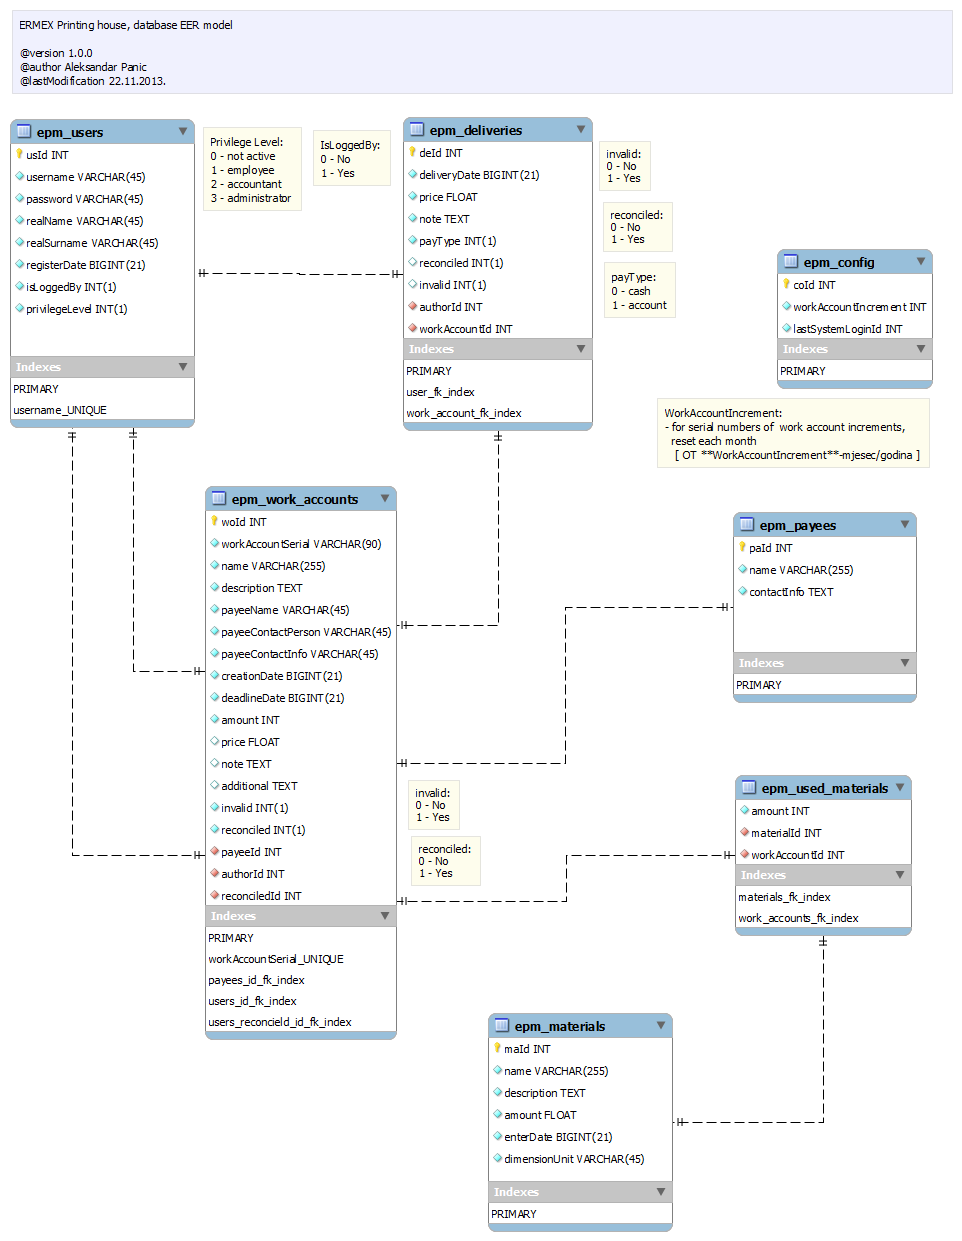
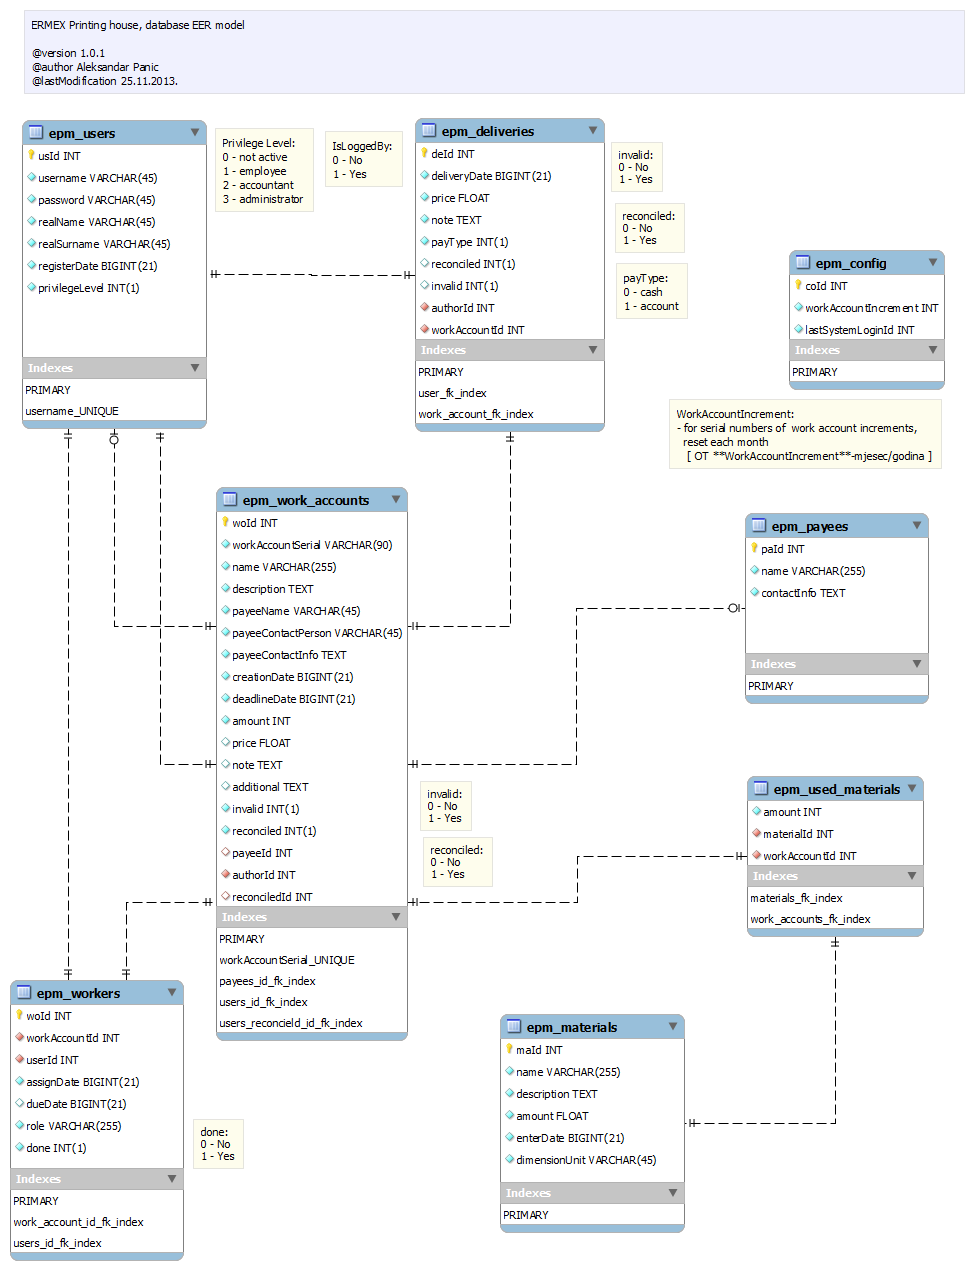
#33 U bazi nedostaje tabela za praćenje ko je šta radio

diff --git a/cross-platform/protected/models/WorkAccounts.php b/cross-platform/protected/models/WorkAccounts.php
@@ -26,9 +26,10 @@
  * The followings are the available model relations:
  * @property Deliveries[] $deliveries
  * @property UsedMaterials[] $usedMaterials
- * @property Users $reconciled0
  * @property Payees $payee
+ * @property Users $reconciled0
  * @property Users $author
+ * @property Workers[] $workers
  */
 class WorkAccounts extends CActiveRecord
 {
@@ -48,16 +49,17 @@ class WorkAccounts extends CActiveRecord
 		// NOTE: you should only define rules for those attributes that
 		// will receive user inputs.
 		return array(
-			array('workAccountSerial, name, description, payeeName, payeeContactPerson, payeeContactInfo, creationDate, deadlineDate, amount, invalid, reconciled, payeeId, authorId, reconciledId', 'required'),
+			array('workAccountSerial, name, description, payeeName, payeeContactPerson, payeeContactInfo, creationDate, deadlineDate, amount, invalid, reconciled, authorId', 'required'),
 			array('amount, invalid, reconciled, payeeId, authorId, reconciledId', 'numerical', 'integerOnly'=>true),
 			array('price', 'numerical'),
 			array('workAccountSerial', 'length', 'max'=>90),
 			array('name', 'length', 'max'=>255),
-			array('payeeName, payeeContactPerson, payeeContactInfo', 'length', 'max'=>45),
+			array('payeeName, payeeContactPerson', 'length', 'max'=>45),
 			array('creationDate, deadlineDate', 'length', 'max'=>21),
 			array('note, additional', 'safe'),
-
-			array('workAccountSerial, name, description, payeeName, payeeContactPerson, payeeContactInfo, creationDate, deadlineDate, amount, price, note, additional, invalid, reconciled, payeeId, authorId, reconciledId', 'safe', 'on'=>'search'),
+			// The following rule is used by search().
+			// @todo Please remove those attributes that should not be searched.
+			array('woId, workAccountSerial, name, description, payeeName, payeeContactPerson, payeeContactInfo, creationDate, deadlineDate, amount, price, note, additional, invalid, reconciled, payeeId, authorId, reconciledId', 'safe', 'on'=>'search'),
 		);
 	}
 
@@ -71,9 +73,10 @@ class WorkAccounts extends CActiveRecord
 		return array(
 			'deliveries' => array(self::HAS_MANY, 'Deliveries', 'workAccountId'),
 			'usedMaterials' => array(self::HAS_MANY, 'UsedMaterials', 'workAccountId'),
-			'reconciled0' => array(self::BELONGS_TO, 'Users', 'reconciledId'),
 			'payee' => array(self::BELONGS_TO, 'Payees', 'payeeId'),
+			'reconciled0' => array(self::BELONGS_TO, 'Users', 'reconciledId'),
 			'author' => array(self::BELONGS_TO, 'Users', 'authorId'),
+			'workers' => array(self::HAS_MANY, 'Workers', 'workAccountId'),
 		);
 	}
 
@@ -83,14 +86,14 @@ class WorkAccounts extends CActiveRecord
 	public function attributeLabels()
 	{
 		return array(
-			'workAccountSerial' => 'Broj Naloga',
+			'workAccountSerial' => 'Serijski Broj',
 			'name' => 'Naziv',
 			'description' => 'Opis',
 			'payeeName' => 'Naručilac',
 			'payeeContactPerson' => 'Kontakt Osoba',
 			'payeeContactInfo' => 'Kontakt Informacije',
-			'creationDate' => 'Datum kreiranja',
-			'deadlineDate' => 'Rok',
+			'creationDate' => 'Datum Kreiranja',
+			'deadlineDate' => 'Datum Roka',
 			'amount' => 'Količina',
 			'price' => 'Cijena',
 			'note' => 'Napomena',
@@ -118,6 +121,7 @@ class WorkAccounts extends CActiveRecord
 
 		$criteria=new CDbCriteria;
 
+		$criteria->compare('woId',$this->woId);
 		$criteria->compare('workAccountSerial',$this->workAccountSerial,true);
 		$criteria->compare('name',$this->name,true);
 		$criteria->compare('description',$this->description,true);
@@ -132,6 +136,9 @@ class WorkAccounts extends CActiveRecord
 		$criteria->compare('additional',$this->additional,true);
 		$criteria->compare('invalid',$this->invalid);
 		$criteria->compare('reconciled',$this->reconciled);
+		$criteria->compare('payeeId',$this->payeeId);
+		$criteria->compare('authorId',$this->authorId);
+		$criteria->compare('reconciledId',$this->reconciledId);
 
 		return new CActiveDataProvider($this, array(
 			'criteria'=>$criteria,

diff --git a/cross-platform/protected/models/Users.php b/cross-platform/protected/models/Users.php
@@ -10,13 +10,13 @@
  * @property string $realName
  * @property string $realSurname
  * @property string $registerDate
- * @property integer $isLoggedBy
  * @property integer $privilegeLevel
  *
  * The followings are the available model relations:
  * @property Deliveries[] $deliveries
  * @property WorkAccounts[] $workAccounts
  * @property WorkAccounts[] $workAccounts1
+ * @property Workers[] $workers
  */
 class Users extends CActiveRecord
 {
@@ -37,12 +37,12 @@ class Users extends CActiveRecord
 		// will receive user inputs.
 		return array(
 			array('username, password, realName, realSurname, registerDate', 'required'),
-			array('isLoggedBy, privilegeLevel', 'numerical', 'integerOnly'=>true),
+			array('privilegeLevel', 'numerical', 'integerOnly'=>true),
 			array('username, password, realName, realSurname', 'length', 'max'=>45),
 			array('registerDate', 'length', 'max'=>21),
 			// The following rule is used by search().
 			// @todo Please remove those attributes that should not be searched.
-			array('usId, username, password, realName, realSurname, registerDate, isLoggedBy, privilegeLevel', 'safe', 'on'=>'search'),
+			array('usId, username, password, realName, realSurname, registerDate, privilegeLevel', 'safe', 'on'=>'search'),
 		);
 	}
 
@@ -57,6 +57,7 @@ class Users extends CActiveRecord
 			'deliveries' => array(self::HAS_MANY, 'Deliveries', 'authorId'),
 			'workAccounts' => array(self::HAS_MANY, 'WorkAccounts', 'reconciledId'),
 			'workAccounts1' => array(self::HAS_MANY, 'WorkAccounts', 'authorId'),
+			'workers' => array(self::HAS_MANY, 'Workers', 'userId'),
 		);
 	}
 
@@ -72,7 +73,6 @@ class Users extends CActiveRecord
 			'realName' => 'Real Name',
 			'realSurname' => 'Real Surname',
 			'registerDate' => 'Register Date',
-			'isLoggedBy' => 'Is Logged By',
 			'privilegeLevel' => 'Privilege Level',
 		);
 	}
@@ -101,7 +101,6 @@ class Users extends CActiveRecord
 		$criteria->compare('realName',$this->realName,true);
 		$criteria->compare('realSurname',$this->realSurname,true);
 		$criteria->compare('registerDate',$this->registerDate,true);
-		$criteria->compare('isLoggedBy',$this->isLoggedBy);
 		$criteria->compare('privilegeLevel',$this->privilegeLevel);
 
 		return new CActiveDataProvider($this, array(

diff --git a/cross-platform/protected/views/radniNalozi/index.php b/cross-platform/protected/views/radniNalozi/index.php
@@ -20,7 +20,10 @@ $this->menu=array(
                                                        'id'=>'work-accounts-grid',
                                                        'dataProvider'=> $dataProvider,
                                                        'columns'=>array(
-
+                                                           array(
+                                                               'header' => 'R. broj',
+                                                               'value'  => '$row + 1',
+                                                           ),
                                                            'workAccountSerial',
                                                            'name',
                                                            'payeeName',
